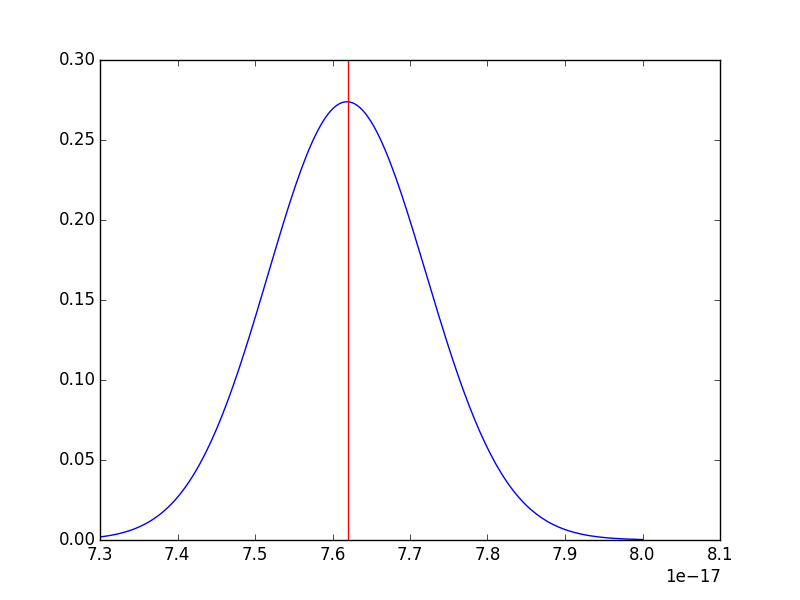
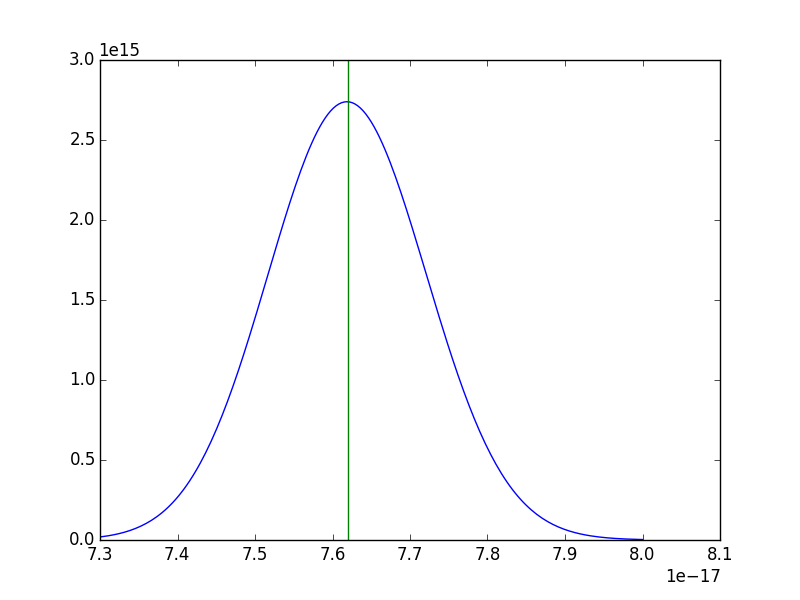
estaba mal el calculo de los intervalos, se corrige

diff --git a/intervalos.py b/intervalos.py
@@ -17,11 +17,12 @@ cred_inter = []
 
 '''
 -----------------------------------------------------------------------------
-Calculo de intervalos de credibilidad : Se tenia la idea de como efectuar
-este calculo, pero a falta de tiempo se decide utilizar algoritmo realizado
-por alumno Bruno Scheihing .
+Calculo de intervalos de credibilidad
 -----------------------------------------------------------------------------
 '''
+# dado las diferencias de escala se calcularon a "mano" los quivalentes
+# a 68%.
+equivalente = [0.002296, 0.098, 0.0467, 0.10014, 0.0643, 0.214]
 for i in range(len(y)):
     print i
     dx = x[i][1] - x[i][0]
@@ -29,31 +30,17 @@ for i in range(len(y)):
         if x[i][n] >= emargins[i]:
             left = n - 1
             right = n + 1
+            print n
             break
     s = dx * y[i][n]
-    while s < 0.0068:
-        if y[i][right] > y[i][left]:
-            s += dx * y[i][right]
-            right += 1
-        else:
-            s += dx * y[i][left]
-            left -= 1
-        if y[i][right] > y[i][left] and s < 0.0068:
-            xl = x[i][left]
-            while y[i][right] > y[i][left]:
-                s += dx * y[i][right]
-                right += 1
-            xr = (x[i][right-1] + (x[i][right]-x[i][right-1]) *
-                  (y[i][left]-y[i][right-1]) /
-                  (y[i][right]-y[i][right-1]))
-        elif s < 0.0068:
-            xr = x[i][right]
-            while y[i][left] >= y[i][right]:
-                s += dx * y[i][left]
-                left -= 1
-            xl = (x[i][left] + (x[i][left+1]-x[i][left]) *
-                  (y[i][right]-y[i][left]) /
-                  (y[i][left+1]-y[i][left]))
+    print s
+    while s < equivalente[i]:
+        left -=1
+        right +=1
+        s += dx * y[i][right]
+        print s
+    xl = x[i][left]
+    xr = x[i][right]
     cred_inter.append((xl, xr))
 
 
@@ -75,20 +62,21 @@ print "Inter. de cred. sigma2:", cred_inter[5], "[A]"
 ----------------------------------------------------------------------------
 PLOTS
 ----------------------------------------------------------------------------
-'''
+
+plt.clf()
 plt.figure(1)
-plt.plot(x[0]/scala, y[0])
-plt.axvline(emargins[0]/scala, color='r')
+plt.plot(x[0]/scala, y[0]*scala, color='b')
+plt.axvline(emargins[0]/scala, color='g')
 plt.savefig('curva1.png')
 
 plt.figure(2)
-plt.plot(x[1], y[1])
-plt.axvline(emargins[1], color='r')
+plt.plot(x[1], y[1], color='b')
+plt.axvline(emargins[1], color='g')
 plt.savefig('curva2.png')
 
 plt.figure(3)
-plt.plot(x[2]/scala, y[2]*scala)
-plt.axvline(emargins[2]/scala, color='r')
+plt.plot(x[2]/scala, y[2]*scala, color='b')
+plt.axvline(emargins[2]/scala, color='g')
 plt.savefig('curva3.png')
 
 plt.figure(4)
@@ -109,3 +97,4 @@ plt.savefig('curva6.png')
 
 plt.draw()
 plt.show()
+'''
